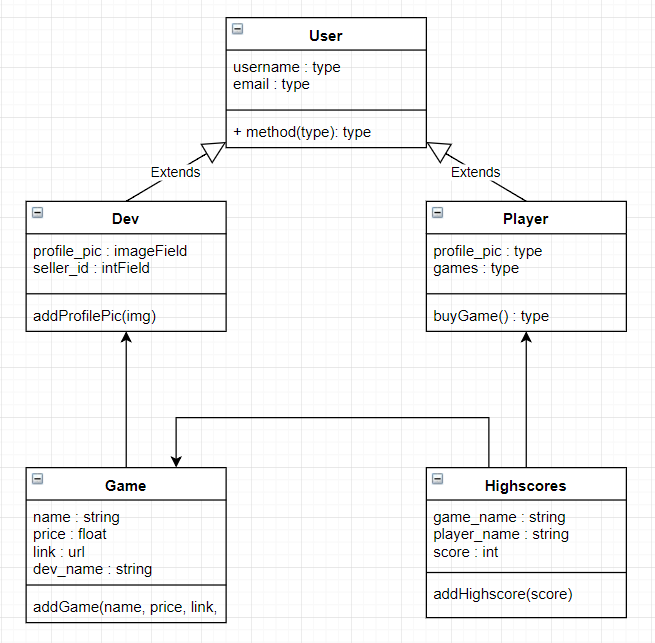
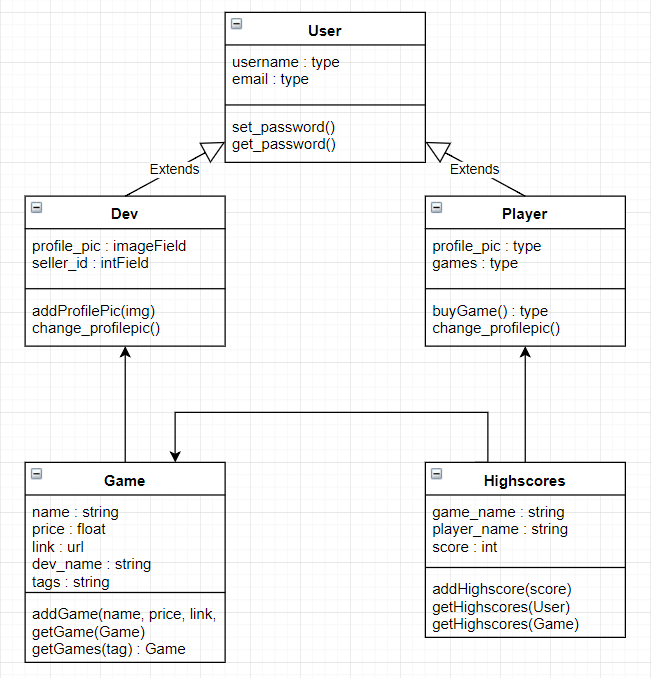
finished project plan

diff --git a/plan/README.md b/plan/README.md
@@ -16,35 +16,49 @@ We are going to implement basic player functionalities: Players are able to sear
 
 Developers are able to add and manage their own games on the site and set a price for them. Basic security, inventory and statics will be implemented inside the dev.<span></span>py model.
 
-Game/service interactions will be implimented using postMessage as requested. We will keep track of highscores and each players game states with appropriate models. 
+Game/service interactions will be implemented using postMessage as requested. We will keep track of highscores and each players game states with appropriate models.
 
 For additional features, the 3rd party login will use Google. The RESTful API will provide a list of the available games in our site in a JSON format. Our own game will be a platformer in the style of Super Mario.
 
 ## Models
-1. User already found in django (username PRIMARY KEY, email, etc.)
-2. Player inherit user (profile_pic, owned_games)
-3. Dev inherit user (profile_pic, seller_id)
+1. User (username PRIMARY KEY, email, etc.), already found in django
+2. Player (profile_pic, owned_games), inherits the User model
+3. Dev (profile_pic, seller_id), inherits the User model
 
-4. Game (name PRIMARY KEY, dev_name, price, link to game, purchases)
-5. Highscores (game, username, score)
+4. Game (name PRIMARY KEY, dev FOREIGN KEY, price, link, purchases, tags)
+5. Highscores (game FOREIGN KEY, user FOREIGNKEY, score)
 
-The games that the user owns are listed in a dictionary in a field in the player model. The key in this dictionary will be the game/name of the game and the value will be the json string representing the current game state for this game and gamer.
+There can be multiple highscores associated with one game and also multiple highscores associated with one player, but a single user can have only one highscore per game. This can be achieved, for example, by setting the username and game_name unigue together in model meta options.
 
-The amount of how many games a certain developer has created can be queried
+Some games might be free and playable by all users without a purchase, even by those users that arent logged in. However, a user has to log in to be able to save a highscore.
 
-highscores
+The games that the user owns are listed in a dictionary in a field in the player model. The key in this dictionary will be the name of the game and the value will be the json string representing the current game state for this game and player. 
 
-usernames and emails are unique, username is the primary key
-user id -- unique
+All the games that a developer has uploaded can be queried through the games model when certain statistics want to be shown to a developer. 
+
+The tags attribute of the Game class is used to categorize different games. These categories can be used in the search and browsing functionality of our web site.
 
 <img src="model_graph.PNG" alt="Smiley face" height="420" width="420">
 
 ## Views
+Proper error, form and session handling will be implemented in the views as well as appropriate registeration, authentication and authorization. Djangos built in registeration, authentication, authorization and session handling tools will be used for an efficient solution. An option for a 3rd party login will be provided. Navigation through the website will be handled with clickable buttons that send forms using the GET method. 
 
 ## Templates
+A simple base template will be created which will be extended by all the other needed templates, to create a uniform and clean looking web application. We will adhere to basic software developement principles such as the DRY principle, in the templates as well ass everywhere else in the program.
+
+## RESTful API
+We will implement a basic API for our website and we will follow the REST architectural style as closely as possible to provide an API that is convinient and easy to use. We will most probably use djangos own framework to develope this API for a compatible solution. Our API will have information of the games in our catalogue and for example highscores. Information will most likely be provided in JSON format.
+
+## Permissions
+
+Permissions are an integral part of this project since monetary transactions are involved. A player should only be able to play a game if they have bought it. Games should not be easily shareable between users and only a single person should be able to be logged in to a certain account at any given time. Also a user should not be able to change the models in ways not intended by the user interface.
+
+## Security
+
+We will implement necessary security against the most common security vulnerabilities. Django in itself has effective solutions against cross site scripting and other injection attacks as well as a simple token based defence against cross site request fogery which we will take advantage of. Making sure that our website does not have any bugs or other unexpected or unintended behaviour that could possibly be exploited will be a priority.
 
 ## Working practices
-We plan on meeting weekly, propably every monday or tuesday. In the weekly meeting, we will present our work from the past week and plan our work for the following week. We are mainly going to work from home, but might arrange some development sessions.
+We plan on meeting weekly, probably every monday or tuesday. In the weekly meeting, we will present our work from the past week and plan our work for the following week. We are mainly going to work from home, but might arrange some development sessions.
 
 ## Implementation order and timetable
 The following timetable sets deadlines for different parts of the site:
